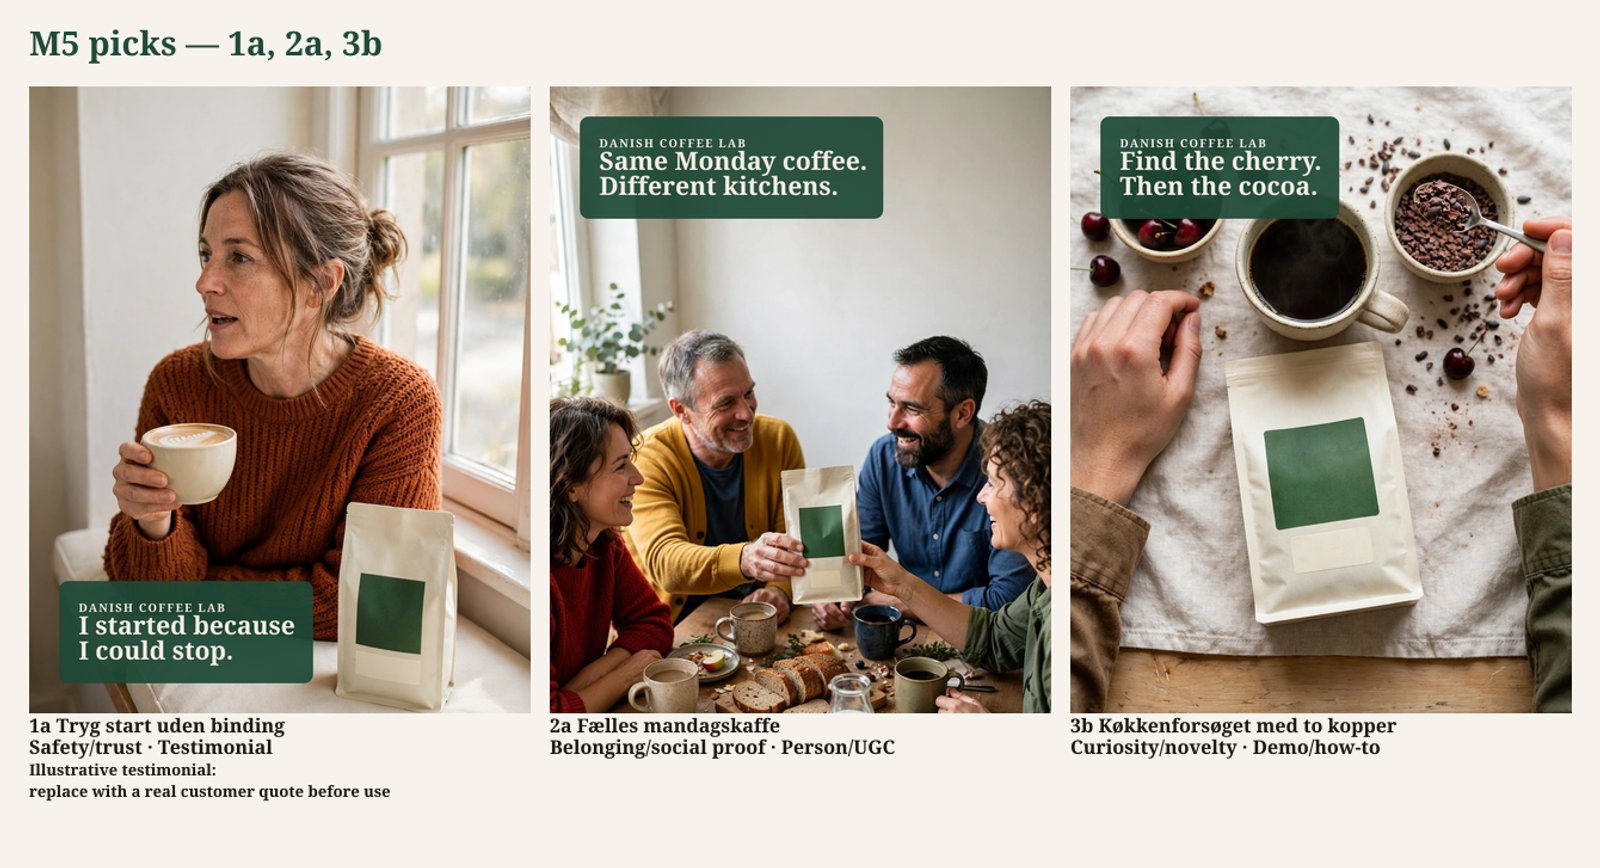
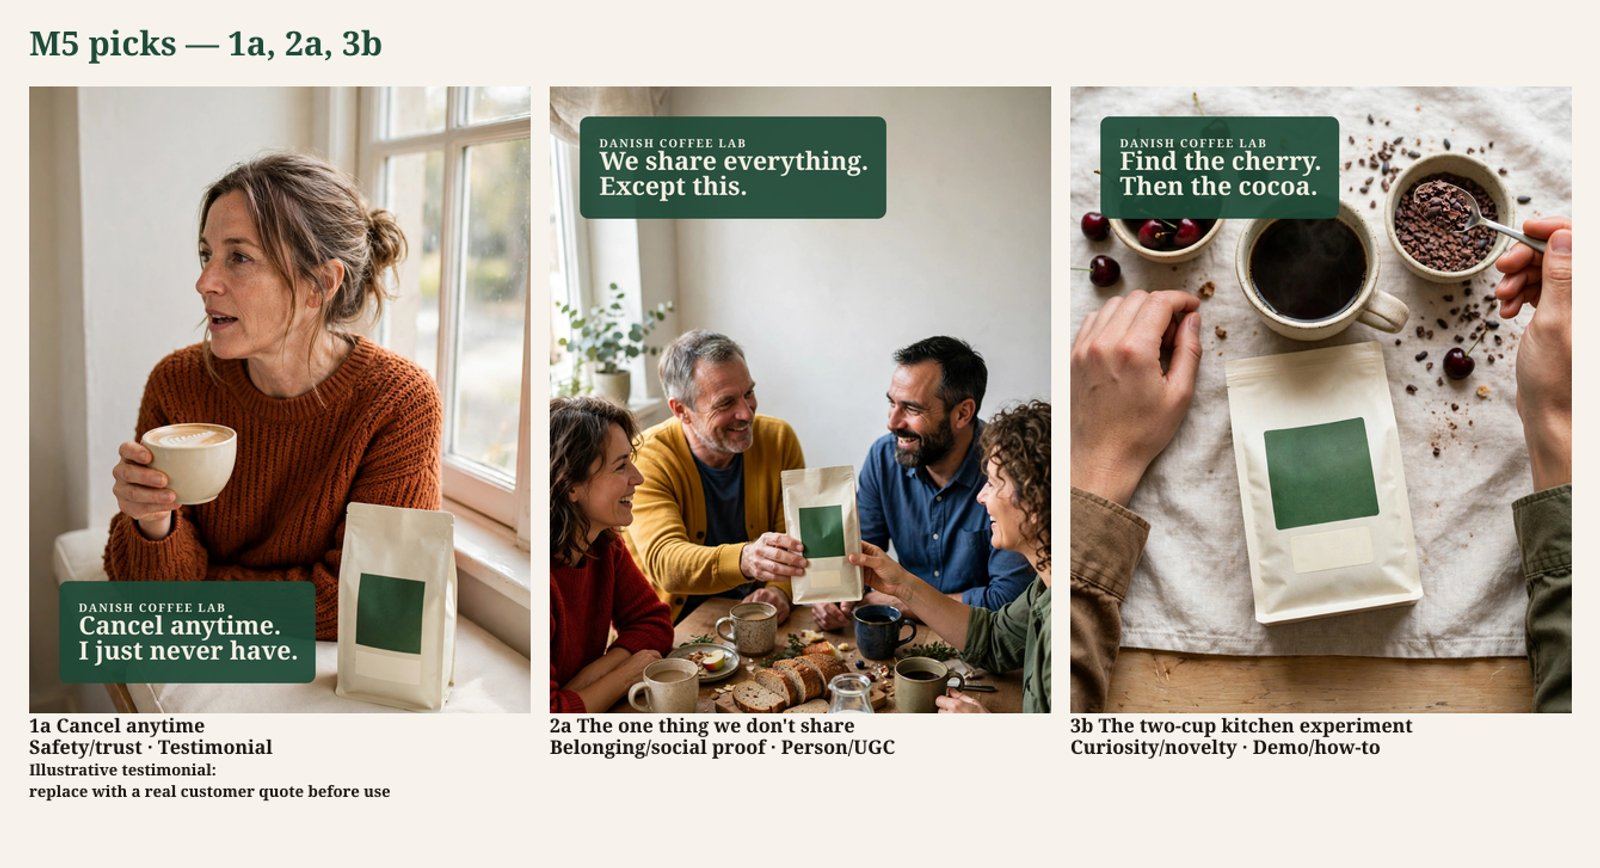
Switch the concept lockups and briefs to English.
The demo copy language stays a setting, defaulting to English, with Danish strings still in the copy file.

diff --git a/lib/copy-language.ts b/lib/copy-language.ts
@@ -1,0 +1,56 @@
+/**
+ * Demo copy language. English is the default. Danish strings stay available.
+ * The eight existing ads are already English and keep kr.
+ */
+export type CopyLanguage = "en" | "da";
+
+export const demoCopyLanguage: CopyLanguage = "en";
+
+export const conceptCopy = {
+  en: {
+    "1": {
+      name: "Cancel anytime",
+      headline: "Cancel anytime. I just never have.",
+      primary:
+        "I saw the price per cup before I started. I can skip a week, and I can cancel any time. I just never have.",
+      label: "Illustrative testimonial: replace with a real customer quote before use.",
+    },
+    "2": {
+      name: "The one thing we don't share",
+      headline: "We share everything. Except this.",
+      primary:
+        "House rule for Monday's bag: whoever reaches it first, brews it. The price per cup is on the page before you start, and you can skip a week.",
+    },
+    "3": {
+      name: "The two-cup kitchen experiment",
+      headline: "Find the cherry. Then the cocoa.",
+      primary:
+        "Take two cups from the same bag. Find the dark cherry first, then the cocoa. Taste the first cup, then the last one.",
+    },
+  },
+  da: {
+    "1": {
+      name: "Opsig når som helst",
+      headline: "Jeg kan altid opsige. Det har jeg bare ikke gjort.",
+      primary:
+        "Jeg så prisen pr. kop, før jeg gik i gang. Jeg kan springe en uge over, og jeg kan opsige når som helst. Det har jeg bare ikke gjort.",
+      label: "Illustrativt citat: udskift med et rigtigt kundecitat før brug.",
+    },
+    "2": {
+      name: "Det eneste vi ikke deler",
+      headline: "Vi deler alt. Bare ikke den her.",
+      primary:
+        "Husregel for mandagens pose: den der når den først, brygger den. Prisen pr. kop står der, før du starter, og du kan springe en uge over.",
+    },
+    "3": {
+      name: "Køkkenforsøget med to kopper",
+      headline: "Find kirsebærret. Så kakaoen.",
+      primary:
+        "Tag to kopper fra den samme pose. Find først mørk kirsebær, så kakao. Smag den første kop, og så den sidste.",
+    },
+  },
+} as const;
+
+export function activeConceptCopy(language: CopyLanguage = demoCopyLanguage) {
+  return conceptCopy[language];
+}

diff --git a/scripts/apply-lockup.ts b/scripts/apply-lockup.ts
@@ -4,6 +4,7 @@ import path from "node:path";
 
 import sharp from "sharp";
 
+import { activeConceptCopy } from "../lib/copy-language";
 import { contactSheet } from "../lib/composite-ad";
 import { demoPortfolio } from "../lib/demo";
 import { layoutQaLine, renderLockup, type LayoutQa, type LockupMasks } from "../lib/lockup";
@@ -36,8 +37,8 @@ const SNIPPETS = [
   ["3c", "slightly wider so the pale table", 2],
 ] as const;
 const PICK_HEADLINES: Record<string, string> = {
-  "1a": "I started because I could stop.",
-  "2a": "Same Monday coffee. Different kitchens.",
+  "1a": "Cancel anytime. I just never have.",
+  "2a": "We share everything. Except this.",
   "3b": "Find the cherry. Then the cocoa.",
 };
 
@@ -298,10 +299,11 @@ async function main(): Promise<void> {
       if (result.qa.recropped) recrops.push(id);
       console.log(`${id}: ${result.qa.corner} recrop ${result.qa.recropped} phrase ${result.phrase} · ${result.qa.reason}`);
       if (PICK_HEADLINES[id]) {
+        const concept = activeConceptCopy()[String(briefIndex + 1) as "1" | "2" | "3"];
         const note =
           id === "1a"
-            ? `${id}  ${brief.copy.conceptName}\n${brief.motivation} · ${brief.execution}\nIllustrative testimonial:\nreplace with a real customer quote before use`
-            : `${id}  ${brief.copy.conceptName}\n${brief.motivation} · ${brief.execution}`;
+            ? `${id}  ${concept.name}\n${brief.motivation} · ${brief.execution}\nIllustrative testimonial:\nreplace with a real customer quote before use`
+            : `${id}  ${concept.name}\n${brief.motivation} · ${brief.execution}`;
         cells.push({ label: note, image: result.image });
       }
     }

diff --git a/components/lab-app.tsx b/components/lab-app.tsx
@@ -16,6 +16,7 @@ import { FeedFrame } from "@/components/feed-frame";
 import { readImageFile } from "@/components/read-image";
 import { SamCropView } from "@/components/sam-crop-view";
 import { demoFileDataUrl } from "@/lib/demo-data-url";
+import { demoCopyLanguage } from "@/lib/copy-language";
 import { demoPortfolio } from "@/lib/demo";
 import { formatBudgetUsd, formatUsd } from "@/lib/money";
 import {
@@ -285,7 +286,7 @@ export function LabApp() {
     <main className="mx-auto flex w-full max-w-[88rem] flex-col gap-8 px-4 py-8 md:px-6 md:py-10">
       <header className="flex flex-col gap-4 md:flex-row md:items-end md:justify-between">
         <div className="max-w-2xl">
-          <p className="text-sm text-muted-foreground">Meta ad creative coverage</p>
+          <p className="text-sm text-muted-foreground">Meta ad creative coverage · Copy language: {demoCopyLanguage === "en" ? "English" : "Danish"}</p>
           <h1 className="mt-1 text-3xl font-semibold tracking-tight md:text-4xl">
             Creative Intelligence Lab
           </h1>

diff --git a/docs/m5/briefs.md b/docs/m5/briefs.md
@@ -1,19 +1,10 @@
 # M5 concept briefs
 
-The eight existing ads are the before. These three are the after, from the current top gaps.
+Copy language: English (`en`). Danish strings are still in `lib/copy-language.ts`.
 
-Mads picked **1a**, **2a**, and **3b**.
+The eight existing ads are the before. These three concepts are the after. Mads picked **1a**, the new concept 2, and **3b**.
 
-On those creatives the lockup uses English, at most 7 words:
-
-- 1a: “I started because I could stop.”
-- 2a: “Same Monday coffee. Different kitchens.”
-- 3b: “Find the cherry. Then the cocoa.”
-
-1a keeps the line “Illustrative testimonial: replace with a real customer quote before use” under the image on the picks sheet. 1b has no corner clear of the face, head, hands, and bag, so it still has the previous overlay.
-
-## 1. Tryg start uden binding
-Safe start with no lock-in
+## 1. Cancel anytime
 
 - Motivation: Safety/trust
 - Execution: Testimonial
@@ -23,24 +14,11 @@ Hypothesis: Safety/trust has no ad in this set, so a Testimonial would cover a m
 
 Illustrative testimonial: replace with a real customer quote before use.
 
-### Danish
+- Headline: Cancel anytime. I just never have.
+- Primary text: I saw the price per cup before I started. I can skip a week, and I can cancel any time. I just never have.
+- Danish headline: Jeg kan altid opsige. Det har jeg bare ikke gjort.
 
-- Headline: “Jeg startede, fordi jeg kunne stoppe igen”
-- Primary text: “Jeg så prisen pr. kop før jeg gik i gang. Jeg kan springe en uge over og opsige når jeg vil. Jeg kan se ristedato på posen.”
-- 2-second hook: Prøv uden at binde dig
-- CTA: Se prisen pr. kop
-- Core message: Trying a subscription feels low risk when you see the price per cup first and know you can skip or cancel.
-- Visual direction: Close, calm portrait at a bright window seat. One person looks slightly off camera, mid-sentence, and holds a flat white with fine latte art. Airy and light. The cream bag is beside them. No grey clothing.
-
-### English
-
-- Headline: “I started because I could stop again”
-- Primary text: “I saw the price per cup before I started. I can skip a week and cancel when I want. I can see the roast date on the bag.”
-- 2-second hook: Try without locking yourself in
-- CTA: See the price per cup
-
-## 2. Fælles mandagskaffe
-Shared Monday coffee
+## 2. The one thing we don't share
 
 - Motivation: Belonging/social proof
 - Execution: Person/UGC
@@ -48,24 +26,11 @@ Shared Monday coffee
 
 Hypothesis: Belonging/social proof has no ad in this set, so a Person/UGC would cover a motivation the portfolio does not use. This is not a forecast.
 
-### Danish
+- Headline: We share everything. Except this.
+- Primary text: House rule for Monday's bag: whoever reaches it first, brews it. The price per cup is on the page before you start, and you can skip a week.
+- Danish headline: Vi deler alt. Bare ikke den her.
 
-- Headline: Sammen om mandagskaffen, hver i sit køkken
-- Primary text: Posen lander mandag morgen. Du brygger, og det gør naboen og kollegaen også. Samme kaffe til ugens start, med ristedato på posen og smag af mørk kirsebær og kakao. Du kan springe en uge over, når det passer.
-- 2-second hook: Samme morgen, samme kaffe som naboen
-- CTA: Vær med mandag
-- Core message: Monday brewing is a shared ritual among neighbours and colleagues at home.
-- Visual direction: A shared Sunday breakfast table, seen from slightly above, with a handheld feel. Three or four adults of different ages, in different colours, pass the bag across a table of cups, food, and clutter. Warm and lively. No grey clothing.
-
-### English
-
-- Headline: Together for Monday coffee, each in their own kitchen
-- Primary text: The bag lands on Monday morning. You brew, and so do the neighbour and the colleague. Same coffee to start the week, with roast date on the bag and notes of dark cherry and cocoa. You can skip a week whenever it suits.
-- 2-second hook: Same morning, same coffee as the neighbour
-- CTA: Join us Monday
-
-## 3. Køkkenforsøget med to kopper
-The Two-Cup Kitchen Experiment
+## 3. The two-cup kitchen experiment
 
 - Motivation: Curiosity/novelty
 - Execution: Demo/how-to
@@ -73,18 +38,6 @@ The Two-Cup Kitchen Experiment
 
 Hypothesis: Curiosity/novelty has no ad in this set, so a Demo/how-to would cover a motivation the portfolio does not use. This is not a forecast.
 
-### Danish
-
-- Headline: Lav et lille smageforsøg i dit køkken
-- Primary text: Tag to kopper fra samme pose. Find først mørk kirsebær. Så kakao. Skriv ikke noget ned. Drik første kop frisk. Gem legen til sidste kop. Smag igen. Hvad har flyttet sig?
-- 2-second hook: Kan du finde kirsebær og kakao?
-- CTA: Prøv forsøget hjemme
-- Core message: Discovery through a playful home tasting: brew two cups, search for dark cherry and cocoa, and compare the first cup with the last.
-- Visual direction: Overhead tasting flat lay. A cup of clear black filter coffee, small bowls of dark cherries and cocoa nibs, a tasting spoon, the bag, and two hands mid-action. Graphic and clean.
-
-### English
-
-- Headline: Run a little tasting test in your kitchen
-- Primary text: Take two cups from the same bag. Find dark cherry first. Then cocoa. Write nothing down. Drink the first cup fresh. Save the game for the last cup. Taste again. What has shifted?
-- 2-second hook: Can you find cherry and cocoa?
-- CTA: Try the experiment at home
+- Headline: Find the cherry. Then the cocoa.
+- Primary text: Take two cups from the same bag. Find the dark cherry first, then the cocoa. Taste the first cup, then the last one.
+- Danish headline: Find kirsebærret. Så kakaoen.
